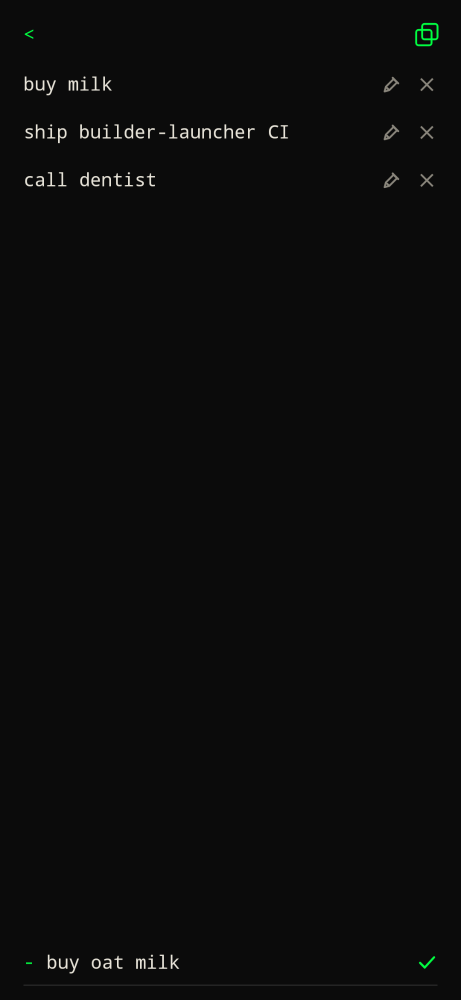
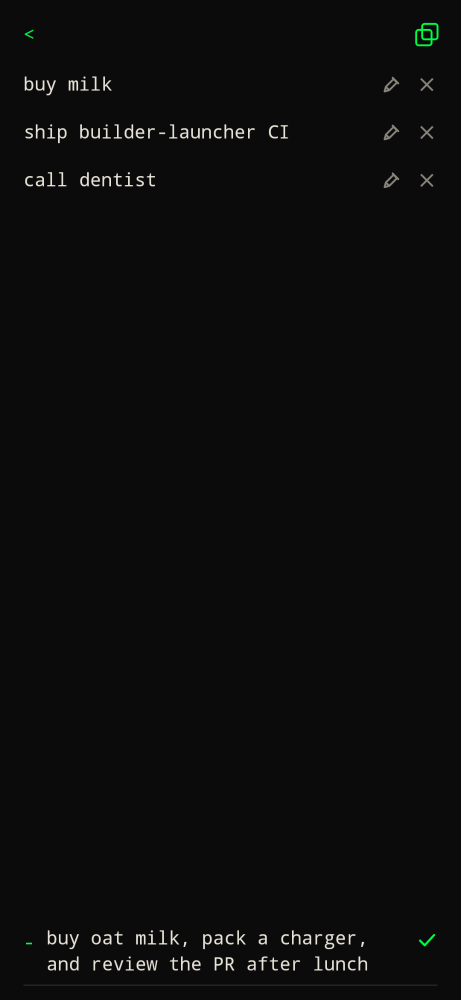
feat: wrap long todos in the home command bar (#81)
Soft-wrap when the prompt is - so adding or editing a task
does not scroll sideways. Enter still saves.

diff --git a/app/src/main/java/xyz/cdr/builderlauncher/ui/BuilderRoot.kt b/app/src/main/java/xyz/cdr/builderlauncher/ui/BuilderRoot.kt
@@ -2470,6 +2470,7 @@ private fun CommandBar(
     var slashSelected by remember { mutableStateOf(0) }
     val slashMode = prompt == SlashCommands.PROMPT
     val slashMatches = if (slashMode) SlashCommands.matches(value) else emptyList()
+    val wrapField = wrap || PrefixCommands.wrapsInput(prompt)
     LaunchedEffect(hardware) {
         focus.requestFocus()
         if (hardware) keyboard?.hide()
@@ -2547,7 +2548,7 @@ private fun CommandBar(
             }
         }
         Row(
-            verticalAlignment = if (wrap) Alignment.Top else Alignment.CenterVertically,
+            verticalAlignment = if (wrapField) Alignment.Top else Alignment.CenterVertically,
             modifier = Modifier.fillMaxWidth(),
         ) {
             Text(
@@ -2563,7 +2564,7 @@ private fun CommandBar(
                             if (menuOpen) selected = 0
                         }
                     }
-                    .padding(end = 10.dp, top = if (wrap) 2.dp else 0.dp),
+                    .padding(end = 10.dp, top = if (wrapField) 2.dp else 0.dp),
             )
             BasicTextField(
                 value = value,
@@ -2574,8 +2575,8 @@ private fun CommandBar(
                         onValue(it)
                     }
                 },
-                singleLine = !wrap,
-                maxLines = if (wrap) 8 else 1,
+                singleLine = !wrapField,
+                maxLines = if (wrapField) 8 else 1,
                 cursorBrush = SolidColor(Accent),
                 textStyle = MaterialTheme.typography.bodyLarge.copy(color = Paper),
                 keyboardOptions = if (PrefixCommands.usesRawSymbolKeyboard(prompt)) {
@@ -2603,7 +2604,7 @@ private fun CommandBar(
                 ),
                 modifier = Modifier
                     .weight(1f)
-                    .then(if (wrap) Modifier.heightIn(max = 160.dp) else Modifier)
+                    .then(if (wrapField) Modifier.heightIn(max = 160.dp) else Modifier)
                     .focusRequester(focus)
                     .onPreviewKeyEvent { event ->
                         if (event.nativeKeyEvent.action != KeyEvent.ACTION_DOWN) return@onPreviewKeyEvent false
@@ -2704,7 +2705,7 @@ private fun CommandBar(
                     Modifier
                         .semantics { contentDescription = "save task" }
                         .clickable { onSubmit() }
-                        .padding(start = 12.dp, top = if (wrap) 2.dp else 0.dp),
+                        .padding(start = 12.dp, top = if (wrapField) 2.dp else 0.dp),
                 )
             }
         }

diff --git a/app/src/main/java/xyz/cdr/builderlauncher/ui/LauncherChrome.kt b/app/src/main/java/xyz/cdr/builderlauncher/ui/LauncherChrome.kt
@@ -51,6 +51,7 @@ import xyz.cdr.builderlauncher.ai.AiPlatforms
 import xyz.cdr.builderlauncher.ai.HermesUrls
 import xyz.cdr.builderlauncher.apps.AppList
 import xyz.cdr.builderlauncher.commands.Calculator
+import xyz.cdr.builderlauncher.commands.PrefixCommands
 import xyz.cdr.builderlauncher.data.BuilderSettings
 import xyz.cdr.builderlauncher.data.AccentColor
 import xyz.cdr.builderlauncher.data.HomeTodos
@@ -1266,6 +1267,7 @@ private fun CommandRow(
     wrap: Boolean = false,
     confirm: Boolean = false,
 ) {
+    val wrapField = wrap || prompt.singleOrNull()?.let { PrefixCommands.wrapsInput(it) } == true
     Column(modifier = Modifier.fillMaxWidth()) {
         if (slashOpen) {
             SlashCommandMenu()
@@ -1293,8 +1295,8 @@ private fun CommandRow(
                 CopyIcon(Modifier.padding(start = 12.dp, top = 2.dp, bottom = 2.dp))
             }
         }
-        Row(verticalAlignment = if (wrap) Alignment.Top else Alignment.CenterVertically) {
-            Text(prompt, color = Accent, modifier = Modifier.padding(end = 10.dp, top = if (wrap) 2.dp else 0.dp))
+        Row(verticalAlignment = if (wrapField) Alignment.Top else Alignment.CenterVertically) {
+            Text(prompt, color = Accent, modifier = Modifier.padding(end = 10.dp, top = if (wrapField) 2.dp else 0.dp))
             Text(
                 value.ifEmpty { "" },
                 color = Paper,
@@ -1302,7 +1304,7 @@ private fun CommandRow(
                 modifier = Modifier.weight(1f),
             )
             if (confirm) {
-                CheckIcon(Modifier.padding(start = 12.dp, top = if (wrap) 2.dp else 0.dp))
+                CheckIcon(Modifier.padding(start = 12.dp, top = if (wrapField) 2.dp else 0.dp))
             }
         }
         HorizontalDivider(color = Line, modifier = Modifier.padding(top = 8.dp))

diff --git a/app/src/test/java/xyz/cdr/builderlauncher/ui/LauncherScreenshotTest.kt b/app/src/test/java/xyz/cdr/builderlauncher/ui/LauncherScreenshotTest.kt
@@ -106,6 +106,22 @@ class LauncherScreenshotTest {
     }
 
     @Test
+    fun homeTodoWrap() {
+        paparazzi.snapshot {
+            BuilderTheme {
+                HomeChrome(
+                    time = "15:42",
+                    date = "Mon 7 Sep",
+                    weather = "18° cloudy",
+                    input = "pack a charger, review the PR after lunch, and pick up oat milk on the way home",
+                    prompt = "-",
+                    todos = listOf("buy milk", "ship builder-launcher CI", "call dentist"),
+                )
+            }
+        }
+    }
+
+    @Test
     fun todos() {
         paparazzi.snapshot {
             BuilderTheme {
@@ -134,7 +150,7 @@ class LauncherScreenshotTest {
                         "ship builder-launcher CI",
                         "call dentist",
                     ),
-                    input = "buy oat milk",
+                    input = "buy oat milk, pack a charger, and review the PR after lunch",
                     confirm = true,
                 )
             }

diff --git a/app/src/test/java/xyz/cdr/builderlauncher/commands/PrefixCommandsTest.kt b/app/src/test/java/xyz/cdr/builderlauncher/commands/PrefixCommandsTest.kt
@@ -143,6 +143,15 @@ class PrefixCommandsTest {
     }
 
     @Test
+    fun todoPromptWrapsInput() {
+        assertTrue(PrefixCommands.wrapsInput('-'))
+        assertFalse(PrefixCommands.wrapsInput(PrefixCommands.DEFAULT_PROMPT))
+        assertFalse(PrefixCommands.wrapsInput('+'))
+        assertFalse(PrefixCommands.wrapsInput('?'))
+        assertFalse(PrefixCommands.wrapsInput('@'))
+    }
+
+    @Test
     fun typeInStockModeDropsAutoSpaceAfterPeriod() {
         val inStock = PrefixCommands.Mode(prompt = '$', input = "OBE.")
         val typed = PrefixCommands.type(inStock, "OBE. TO")

diff --git a/app/src/main/java/xyz/cdr/builderlauncher/commands/PrefixCommands.kt b/app/src/main/java/xyz/cdr/builderlauncher/commands/PrefixCommands.kt
@@ -41,6 +41,9 @@ object PrefixCommands {
     /** Prose modes. Default stays off so calculator expressions are not rewritten. */
     fun usesAutocorrect(glyph: Char): Boolean = glyph == '-' || glyph == '+' || glyph == '?'
 
+    /** Soft-wrap the command bar so long todos stay on screen. Chat passes wrap explicitly. */
+    fun wrapsInput(glyph: Char): Boolean = glyph == '-'
+
     fun type(current: Mode, newInput: String): Mode {
         val first = newInput.firstOrNull()
         val next = if (first != null && isModePrompt(first)) {

diff --git a/website/src/content/docs/use/todos.md b/website/src/content/docs/use/todos.md
@@ -8,6 +8,9 @@ Prefix `-`. Example: `-buy milk`.
 ![Three open todos on home](../../../assets/screenshots/home.png)
 
 - Saved locally on the device (not in a cloud todo app).
+- Long tasks wrap in the bar on home and on the tasks page. Enter still saves.
+
+![A long task wrapping in the home command bar](../../../assets/screenshots/home-todo-wrap.png)
 - Home shows up to 3 **open** todos.
 - Tap a line to complete it (strikethrough). Tap again to reopen, including on the full list under **done**.
 - `… more tasks >` is always on home and opens the full list.

diff --git a/website/src/content/docs/develop/screenshots.md b/website/src/content/docs/develop/screenshots.md
@@ -25,6 +25,7 @@ is the offline fallback when you cannot run Gradle. Do not commit `*-ai.png` dra
 | `home.png` | `home` |
 | `home-timer.png` | `homeTimer` |
 | `home-ticker.png` | `homeTicker` |
+| `home-todo-wrap.png` | `homeTodoWrap` |
 | `todos.png` | `todos` |
 | `todos-edit.png` | `todosEdit` |
 | `commands.png` / `command-menu.png` | `homeCommandMenu` |
